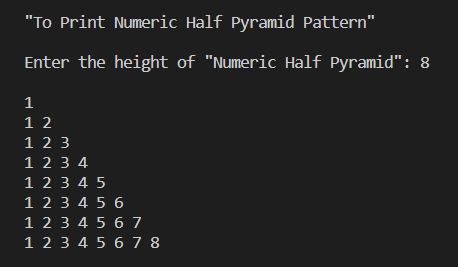
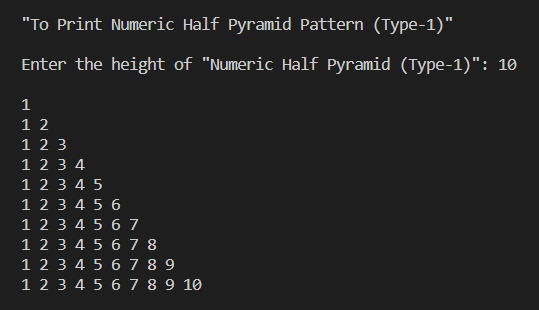
Updated "Numeric Half Pyramid Pattern"

diff --git a/02_Playing with Patterns/11_Numeric Half Pyramid/01_Numeric_Half_Pyramid.cpp b/02_Playing with Patterns/11_Numeric Half Pyramid/01_Numeric_Half_Pyramid.cpp
@@ -1,4 +1,4 @@
-// Numeric Half Pyramid 
+// Numeric Half Pyramid (Type-1) 
 
 #include<iostream> 
 using namespace std;
@@ -6,16 +6,16 @@ using namespace std;
 int main(){
 
     cout << endl; 
-    cout << "\"To Print Numeric Half Pyramid Pattern\"" << endl; 
+    cout << "\"To Print Numeric Half Pyramid Pattern (Type-1)\"" << endl; 
     cout << endl; 
 
     int height; 
-    cout << "Enter the height of \"Numeric Half Pyramid\": "; 
+    cout << "Enter the height of \"Numeric Half Pyramid (Type-1)\": "; 
     cin >> height; 
 
     cout << endl; 
 
-    // Logic for printing "Numeric Half Pyramid": 
+    // Logic for printing "Numeric Half Pyramid" (Type-1): 
     for(int row=0; row < height; row++){
         for(int col=0; col < row+1; col++){
             cout << col+1 << " ";   
@@ -30,8 +30,7 @@ int main(){
 
 
 /*
-    // My Different Logic for Printing "Numeric Half Pyramid": 
-
+    // My Different Logic for Printing "Numeric Half Pyramid (Type-1)": 
     for(int row=0; row < height; row++){
 
         int count=1;
@@ -43,4 +42,42 @@ int main(){
 
         cout << endl;
     }
+*/
+
+
+// _ _ _ _ _ _ _ _ _ _ _ _ _ _ _ _ _ _ _ _ _ _ _ _ _ 
+
+
+/*
+
+// Numeric Half Pyramid (Type-2) 
+
+#include<iostream> 
+using namespace std;
+
+int main(){
+
+    cout << endl; 
+    cout << "\"To Print Numeric Half Pyramid Pattern (Type-2)\"" << endl; 
+    cout << endl; 
+
+    int height; 
+    cout << "Enter the height of \"Numeric Half Pyramid (Type-2)\": "; 
+    cin >> height; 
+
+    cout << endl; 
+
+    // Logic for printing "Numeric Half Pyramid (Type-2)": 
+    for(int row=0; row < height; row++){
+        for(int col=0; col < row+1; col++){
+            cout << row + col + 1 << " ";   
+        }
+        cout << endl;
+    }
+
+    cout << endl;
+    
+    return 0;
+}
+
 */
